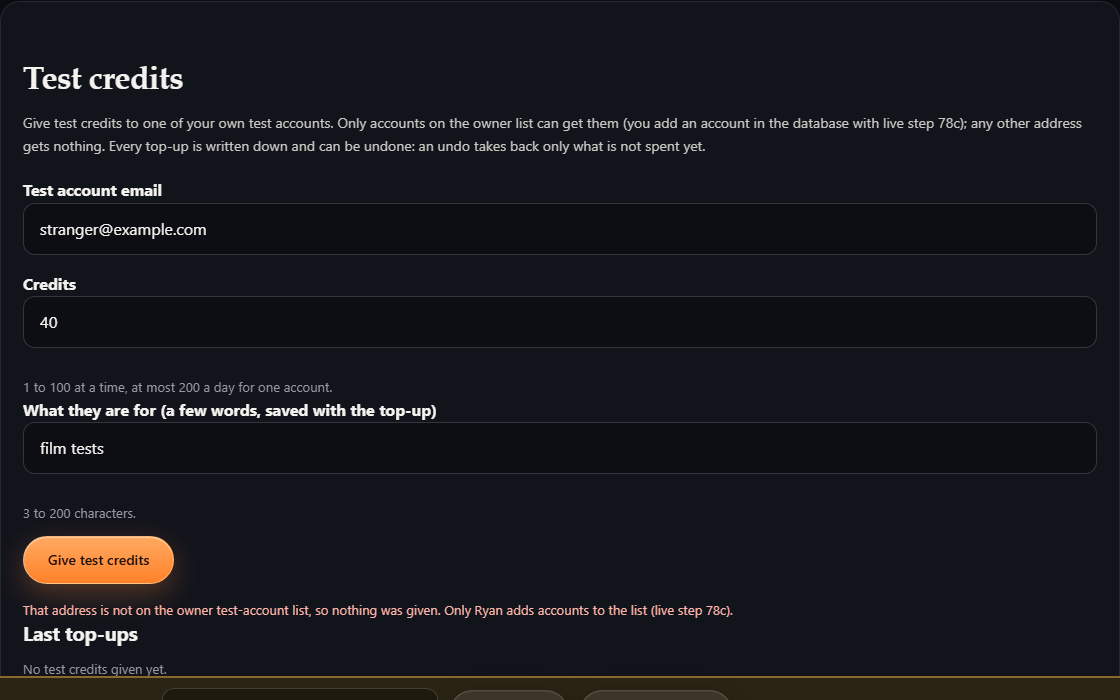
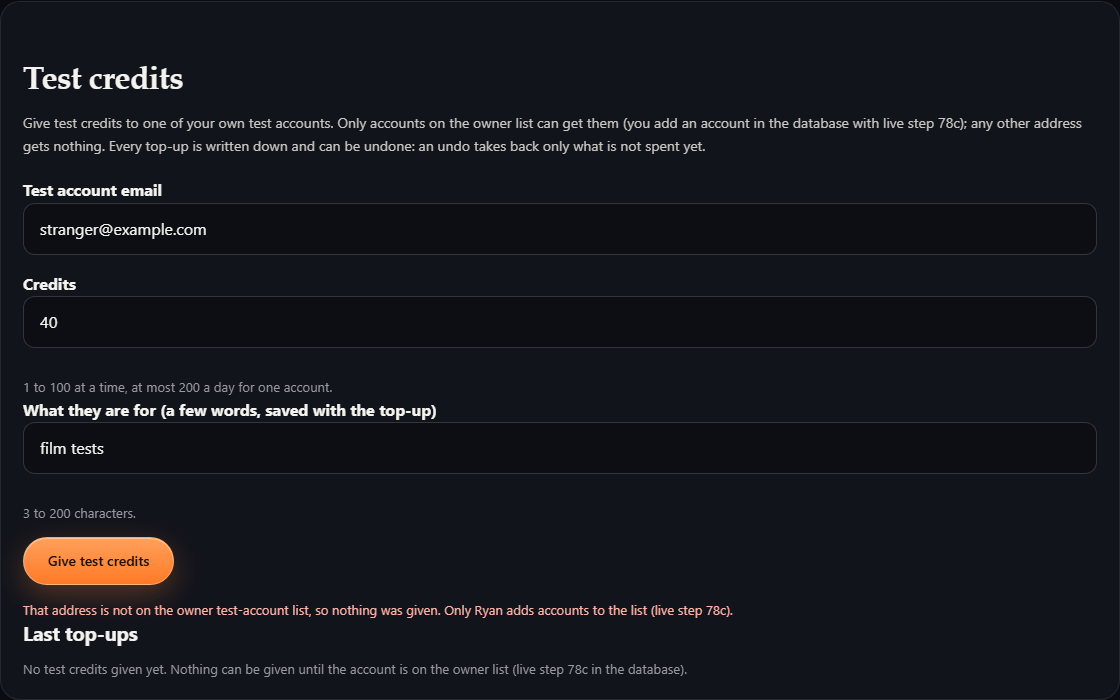
Test credits: fold FACES' MEDIUM + LOWs and WEB's LOW 1 (an in-page confirm before Give, 10 by default, the owner-list line when nothing was given yet)
Give now asks in the page first ('Give N test credits to <address>? Credits that get spent cannot be
taken back by an undo.' Yes, give them / No, go back); the call is made only from Yes. Never
window.confirm (the Claude app panes answer it with No). The credits field starts at 10, not 50. An
empty list says nothing can be given until the account is on the owner list (live step 78c).
app-device.js keeps the unshipped stamp 20261127t1 with its pair recomputed. Node 2506/0/12; the
mock walk at 1280 and 390 ALL OK (confirm, No gives nothing, a stranger refused, give, undo);
screenshots refreshed plus desktop-confirm.png (mock addresses only).

Changed region(s): [[0.0, 0.93, 1.0, 1.0], [0.0312, 0.75, 0.1562, 0.84], [0.125, 0.81, 0.1562, 0.84]]

diff --git a/assets/app-device.js b/assets/app-device.js
@@ -368,10 +368,11 @@
       let topupSection = null;
       if (window.ryagramSwitches && window.ryagramSwitches.featureOn('adminTestTopup') === true) {
         const tEmail = h('input', { id: 'topup-email', type: 'email', autocomplete: 'off', maxlength: '200', spellcheck: 'false' });
-        const tCredits = h('input', { id: 'topup-credits', type: 'number', min: '1', max: '100', step: '1', value: '50', inputmode: 'numeric', 'aria-describedby': 'topup-credits-note' });
+        const tCredits = h('input', { id: 'topup-credits', type: 'number', min: '1', max: '100', step: '1', value: '10', inputmode: 'numeric', 'aria-describedby': 'topup-credits-note' });
         const tNote = h('input', { id: 'topup-note', type: 'text', autocomplete: 'off', maxlength: '200', 'aria-describedby': 'topup-note-note' });
         const tStatus = h('p', { class: 'form-note', role: 'status' }), tError = errorLine();
         const tList = h('div', { class: 'topup-list' });
+        const tConfirm = h('div', { class: 'inpage-confirm topup-confirm', role: 'group', 'aria-labelledby': 'topup-confirm-q', hidden: true });
         const who = r => String(r.user_email || 'an account').slice(0, 120);
         async function drawTopups() {
           let rows;
@@ -394,7 +395,7 @@
             return h('li', {}, h('strong', {}, who(r)),
               h('span', { class: 'meta' }, ` ${Number(r.credits) || 0} credits, ${new Date(r.created_at).toLocaleString()}${done ? `, undone (${Number(r.taken_back) || 0} taken back)` : ''}`),
               h('p', { class: 'form-note' }, 'For: ', String(r.note || '').slice(0, 200)), undo);
-          })) : h('p', { class: 'form-note' }, 'No test credits given yet.'));
+          })) : h('p', { class: 'form-note' }, 'No test credits given yet. Nothing can be given until the account is on the owner list (live step 78c in the database).'));
         }
         const give = h('button', { class: 'button primary', type: 'button', 'data-key': 'topup-give' }, 'Give test credits');
         give.addEventListener('click', () => {
@@ -403,14 +404,21 @@
           const problem = !email ? 'Type the test account\u2019s email.' : !(Number.isInteger(n) && n >= 1 && n <= 100) ? 'A test top-up is 1 to 100 credits.'
             : (note.length < 3 || note.length > 200) ? 'Say what the credits are for, in a few words.' : '';
           if (problem) { showError(tError, new Error(problem)); return; }
-          return busy(give, 'Giving\u2026', async () => {
+          const yes = h('button', { class: 'button primary', type: 'button', 'data-key': 'topup-yes' }, 'Yes, give them');
+          const no = h('button', { class: 'button secondary', type: 'button', 'data-key': 'topup-no' }, 'No, go back');
+          tConfirm.replaceChildren(h('p', { class: 'form-note', id: 'topup-confirm-q' }, `Give ${n} test credits to ${email.slice(0, 120)}? Credits that get spent cannot be taken back by an undo.`), h('div', { class: 'actions-row' }, yes, no));
+          tConfirm.hidden = false; give.disabled = true; yes.focus();
+          const close = () => { tConfirm.hidden = true; tConfirm.replaceChildren(); give.disabled = false; };
+          no.addEventListener('click', () => { close(); give.focus(); });
+          yes.addEventListener('click', () => busy(yes, 'Giving\u2026', async () => {
             try {
               const id = await data.adminTestTopup(email, n, note);
+              close();
               tStatus.textContent = `${n} test credits given to ${email.slice(0, 120)} (top-up ${Number(id)}). It is in the list below, with an Undo.`;
               tNote.value = '';
               await drawTopups();
-            } catch (err) { showError(tError, err); }
-          });
+            } catch (err) { close(); showError(tError, err); }
+          }));
         });
         await drawTopups();
         topupSection = h('section', { class: 'account-section', 'aria-labelledby': 'test-topup-h' }, h('h2', { id: 'test-topup-h' }, 'Test credits'),
@@ -420,7 +428,7 @@
           h('p', { id: 'topup-credits-note', class: 'form-note' }, '1 to 100 at a time, at most 200 a day for one account.'),
           h('label', { for: 'topup-note' }, 'What they are for (a few words, saved with the top-up)'), tNote,
           h('p', { id: 'topup-note-note', class: 'form-note' }, '3 to 200 characters.'),
-          h('div', { class: 'actions-row' }, give), tStatus, tError,
+          h('div', { class: 'actions-row' }, give), tConfirm, tStatus, tError,
           h('h3', {}, 'Last top-ups'), tList);
       }
       return [back, h('h1', { tabindex: '-1' }, 'Tester computers'),
